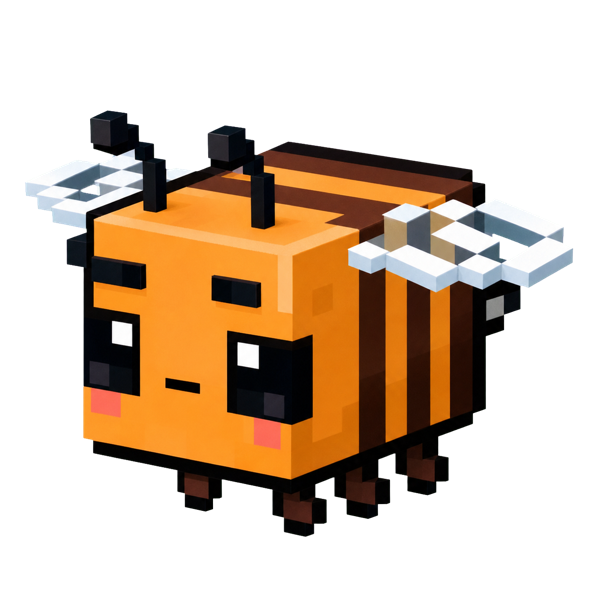
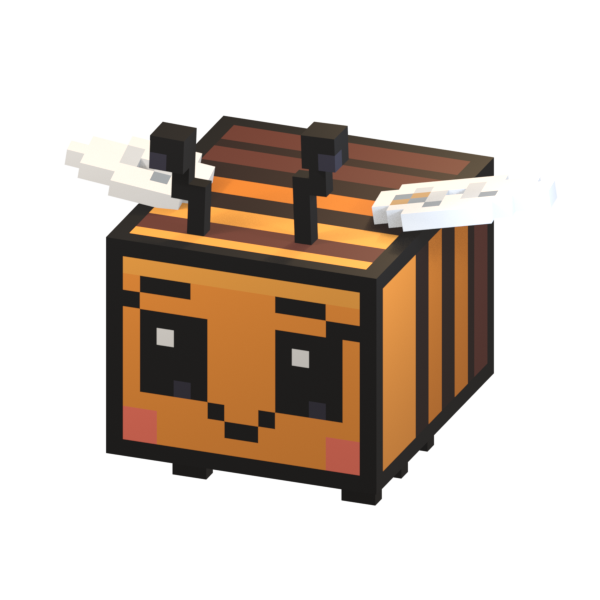
feat(bee-3d): swap app bee assets with renders from the new voxel model
Replace the animated bee.webp (idle clip, transparent 512px, 12 fps loop)
and the five mood stills with renders generated from the rebuilt 3D asset
via the new tools/bee-3d/render_app_assets.py script. Mood mapping:
awful=sad+tear slumped, bad=sleepy droop, okay=neutral, good=content
blink, great=happy grin.

Generated with [Devin](https://devin.ai)

diff --git a/apps/mobile/src/components/floating-bee.tsx b/apps/mobile/src/components/floating-bee.tsx
@@ -3,10 +3,11 @@ import type { StyleProp, ViewStyle } from 'react-native';
 import { View } from 'react-native';
 import { useReducedMotion } from 'react-native-reanimated';
 
-// Animated bee (transparent animated WebP), cropped from the source video.
+// Animated bee (transparent animated WebP), rendered from the 3D asset's
+// idle clip via tools/bee-3d/render_app_assets.py.
 const BEE_SOURCE = require('../../assets/images/bee.webp');
 /** Intrinsic size of the animation frames, used to keep the aspect ratio. */
-const BEE = { width: 374, height: 360 } as const;
+const BEE = { width: 512, height: 512 } as const;
 
 /**
  * The little animated bee, with a transparent background.

diff --git a/tools/bee-3d/render_app_assets.py b/tools/bee-3d/render_app_assets.py
@@ -1,0 +1,112 @@
+"""Render app-ready Bee assets from the built bee.blend.
+
+Run from the repository root after building the asset:
+
+    blender assets/bee-3d/bee.blend --background \
+      --python tools/bee-3d/render_app_assets.py
+
+Outputs:
+
+- /tmp/bee-app-idle/frame_####.png — transparent idle-loop frames (512px)
+  for encoding apps/mobile/assets/images/bee.webp with img2webp
+- /tmp/bee-app-moods/bee-<mood>.png — transparent 600px mood stills for
+  apps/mobile/assets/images/moods/
+"""
+
+from __future__ import annotations
+
+import math
+from pathlib import Path
+
+import bpy
+
+
+IDLE_DIR = Path("/tmp/bee-app-idle")
+MOOD_DIR = Path("/tmp/bee-app-moods")
+
+# mood -> (expression plate object or None, root pose)
+MOODS = {
+    "awful": ("Face_sad", {"z": -0.5, "rx": 8, "rz": -6}),
+    "bad": ("Face_sleepy", {"z": -0.25, "rx": 4, "rz": 3}),
+    "okay": (None, {"z": 0.0, "rx": 0, "rz": 0}),
+    "good": ("Face_blink", {"z": 0.1, "rx": 0, "rz": 3}),
+    "great": ("Face_happy", {"z": 0.25, "rx": -4, "rz": -5}),
+}
+
+
+def mute_tracks(active: str | None) -> None:
+    for obj in bpy.data.objects:
+        if obj.animation_data:
+            for track in obj.animation_data.nla_tracks:
+                track.mute = track.name != active
+
+
+def setup_transparent_render(size: int) -> None:
+    scene = bpy.context.scene
+    for engine in ("BLENDER_EEVEE_NEXT", "BLENDER_EEVEE", "CYCLES"):
+        try:
+            scene.render.engine = engine
+            break
+        except TypeError:
+            continue
+    scene.render.resolution_x = size
+    scene.render.resolution_y = size
+    scene.render.resolution_percentage = 100
+    scene.render.image_settings.file_format = "PNG"
+    scene.render.image_settings.color_mode = "RGBA"
+    scene.render.image_settings.color_depth = "8"
+    scene.render.film_transparent = True
+    scene.render.fps = 24
+    floor = bpy.data.objects.get("Preview_Floor")
+    if floor:
+        floor.hide_render = True
+
+
+def render_idle_frames() -> None:
+    IDLE_DIR.mkdir(parents=True, exist_ok=True)
+    scene = bpy.context.scene
+    setup_transparent_render(512)
+    mute_tracks("idle")
+    # Frame 193 duplicates frame 1, so stop at 192 for a seamless loop.
+    for frame in range(1, 193):
+        scene.frame_set(frame)
+        scene.render.filepath = str(IDLE_DIR / f"frame_{frame:04d}.png")
+        bpy.ops.render.render(write_still=True)
+    print(f"Idle frames: {IDLE_DIR}")
+
+
+def render_moods() -> None:
+    MOOD_DIR.mkdir(parents=True, exist_ok=True)
+    scene = bpy.context.scene
+    setup_transparent_render(600)
+    mute_tracks(None)
+    scene.frame_set(0)
+
+    root = bpy.data.objects["Bee_Root"]
+    for mood, (plate_name, pose) in MOODS.items():
+        plate = bpy.data.objects.get(plate_name) if plate_name else None
+        if plate:
+            plate.scale = (1.0, 1.0, 1.0)
+        root.location = (0, 0, pose["z"])
+        root.rotation_euler = (
+            math.radians(pose["rx"]),
+            0,
+            math.radians(pose["rz"]),
+        )
+        scene.render.filepath = str(MOOD_DIR / f"bee-{mood}.png")
+        bpy.ops.render.render(write_still=True)
+        if plate:
+            plate.scale = (0.0, 0.0, 0.0)
+
+    root.location = (0, 0, 0)
+    root.rotation_euler = (0, 0, 0)
+    print(f"Mood stills: {MOOD_DIR}")
+
+
+def main() -> None:
+    render_idle_frames()
+    render_moods()
+
+
+if __name__ == "__main__":
+    main()
